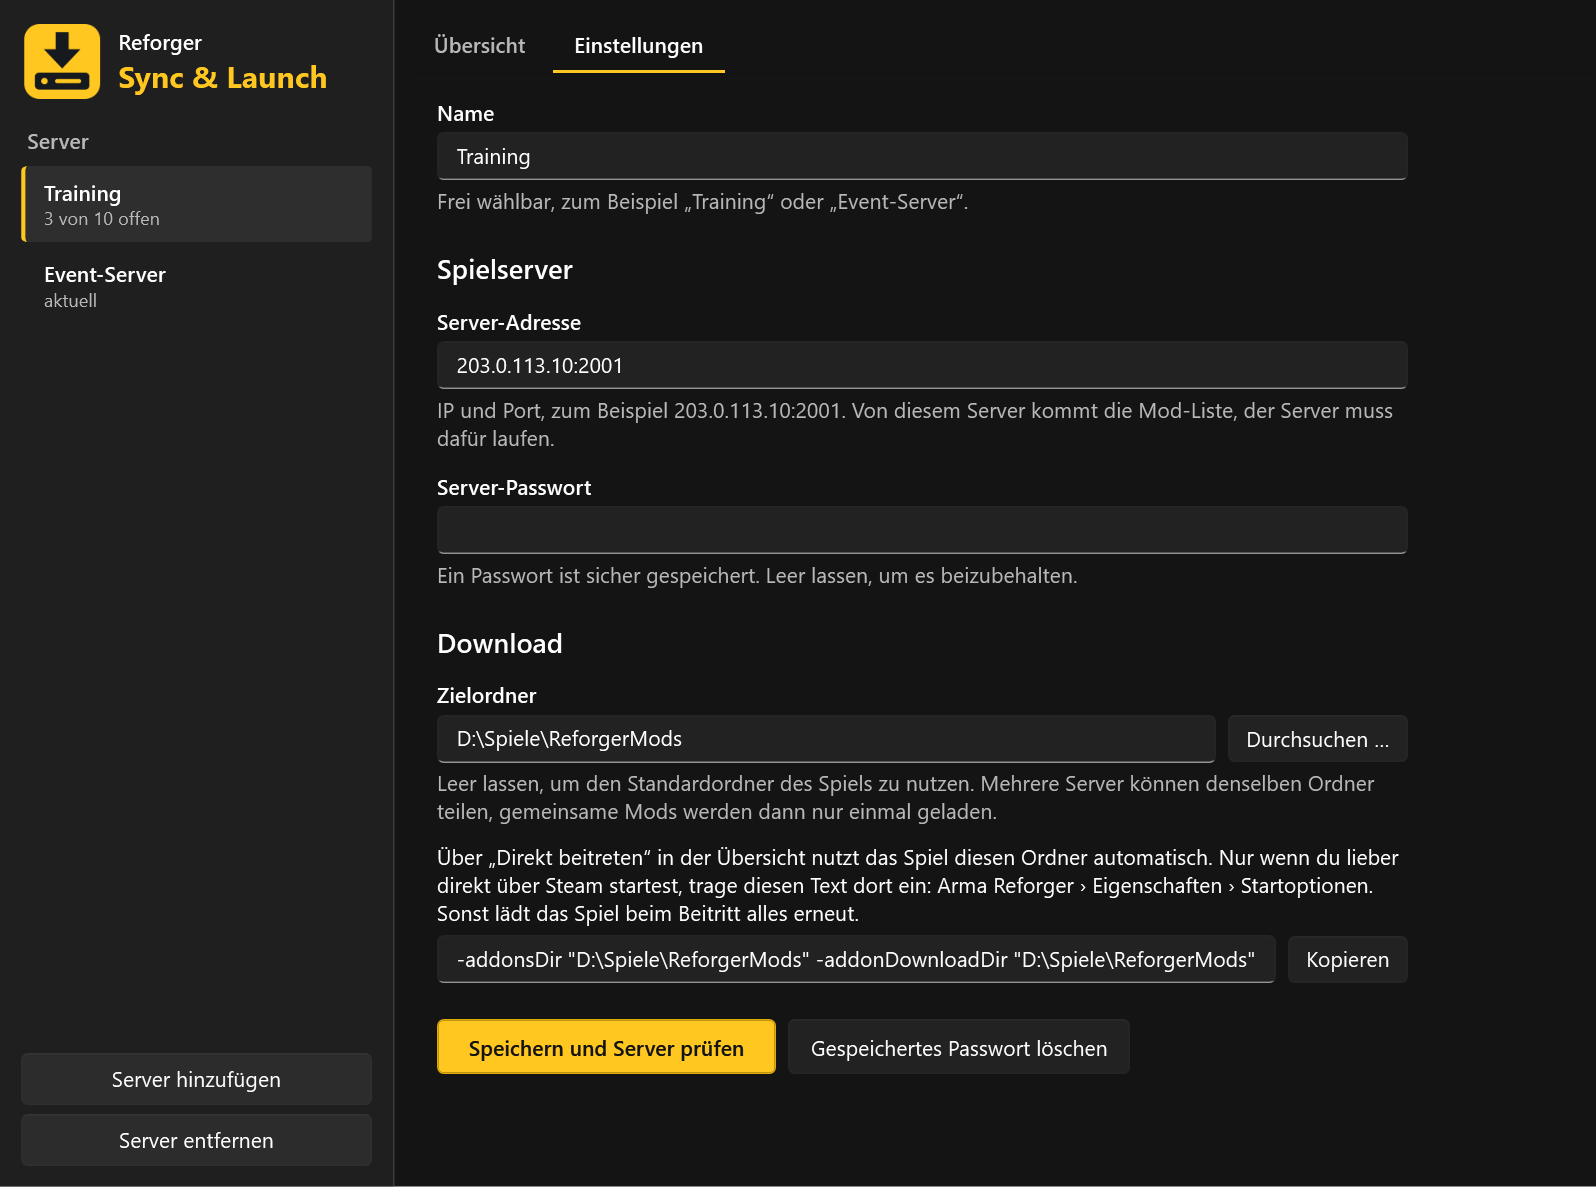
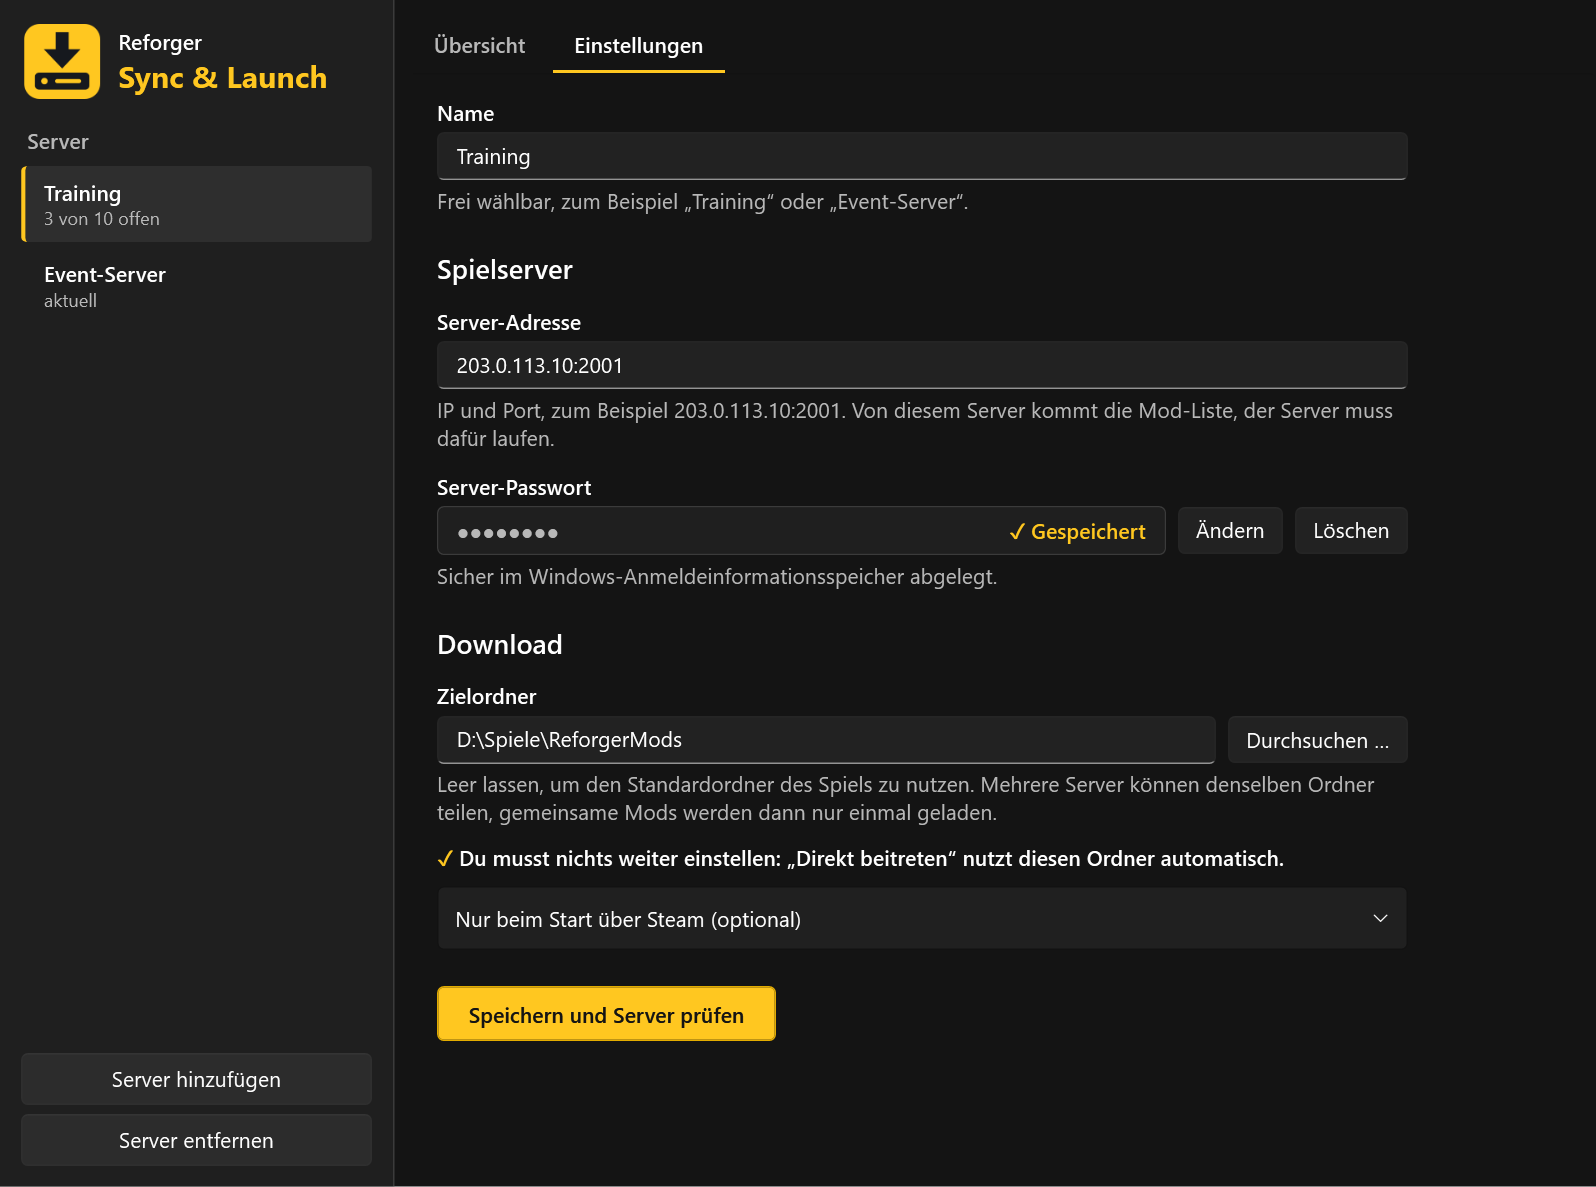
Einstellungen: gespeichertes Passwort klar anzeigen, Steam-Startoptionen optional einklappen

diff --git a/src/ReforgerModSync.App/MainWindow.xaml b/src/ReforgerModSync.App/MainWindow.xaml
@@ -226,7 +226,34 @@
                         <TextBlock Text="IP und Port, zum Beispiel 203.0.113.10:2001. Von diesem Server kommt die Mod-Liste, der Server muss dafür laufen." Style="{StaticResource Hint}" />
 
                         <TextBlock Text="Server-Passwort" Style="{StaticResource FieldLabel}" />
-                        <PasswordBox x:Name="PasswordInput" />
+                        <!-- Die Punkte sind reine Anzeige: feste Anzahl, nichts vom echten Passwort, nie in der Eingabe. -->
+                        <Grid Visibility="{Binding ShowSavedPassword, Converter={StaticResource BoolToVisibility}}">
+                            <Grid.ColumnDefinitions>
+                                <ColumnDefinition Width="*" />
+                                <ColumnDefinition Width="Auto" />
+                                <ColumnDefinition Width="Auto" />
+                            </Grid.ColumnDefinitions>
+                            <Border Background="{StaticResource BrandSurfaceBrush}" BorderBrush="{StaticResource BrandBorderBrush}"
+                                    BorderThickness="1" CornerRadius="4" Padding="12,6"
+                                    AutomationProperties.Name="Ein Passwort ist gespeichert">
+                                <DockPanel>
+                                    <TextBlock DockPanel.Dock="Right" Text="✓ Gespeichert" FontWeight="SemiBold"
+                                               Foreground="{StaticResource BrandGoldBrush}" VerticalAlignment="Center" />
+                                    <TextBlock Text="●●●●●●●●" Foreground="{StaticResource BrandMutedBrush}" VerticalAlignment="Center" />
+                                </DockPanel>
+                            </Border>
+                            <Button Grid.Column="1" Content="Ändern" Margin="8,0,0,0" Click="OnChangePasswordClick" />
+                            <Button Grid.Column="2" Content="Löschen" Margin="8,0,0,0" Click="OnDeletePasswordClick" />
+                        </Grid>
+                        <Grid Visibility="{Binding ShowPasswordInput, Converter={StaticResource BoolToVisibility}}">
+                            <Grid.ColumnDefinitions>
+                                <ColumnDefinition Width="*" />
+                                <ColumnDefinition Width="Auto" />
+                            </Grid.ColumnDefinitions>
+                            <PasswordBox x:Name="PasswordInput" />
+                            <Button Grid.Column="1" Content="Abbrechen" Margin="8,0,0,0" Click="OnCancelPasswordClick"
+                                    Visibility="{Binding CanCancelPasswordEdit, Converter={StaticResource BoolToVisibility}}" />
+                        </Grid>
                         <TextBlock Text="{Binding PasswordHint}" Style="{StaticResource Hint}" />
 
                         <TextBlock Text="Download" Style="{StaticResource SectionTitle}" Margin="0,24,0,0" />
@@ -243,23 +270,31 @@
                                    Text="Leer lassen, um den Standardordner des Spiels zu nutzen. Mehrere Server können denselben Ordner teilen, gemeinsame Mods werden dann nur einmal geladen." />
 
                         <StackPanel Visibility="{Binding HasDownloadDir, Converter={StaticResource BoolToVisibility}}" Margin="0,12,0,0">
-                            <TextBlock TextWrapping="Wrap"
-                                       Text="Über „Direkt beitreten“ in der Übersicht nutzt das Spiel diesen Ordner automatisch. Nur wenn du lieber direkt über Steam startest, trage diesen Text dort ein: Arma Reforger › Eigenschaften › Startoptionen. Sonst lädt das Spiel beim Beitritt alles erneut." />
-                            <Grid Margin="0,6,0,0">
-                                <Grid.ColumnDefinitions>
-                                    <ColumnDefinition Width="*" />
-                                    <ColumnDefinition Width="Auto" />
-                                </Grid.ColumnDefinitions>
-                                <TextBox Text="{Binding SteamLaunchOptions, Mode=OneWay}" IsReadOnly="True" />
-                                <Button Grid.Column="1" Content="Kopieren" Margin="8,0,0,0" Click="OnCopyLaunchOptionsClick" />
-                            </Grid>
+                            <TextBlock TextWrapping="Wrap" FontWeight="SemiBold">
+                                <Run Text="✓" Foreground="{StaticResource BrandGoldBrush}" />
+                                <Run Text="Du musst nichts weiter einstellen: „Direkt beitreten“ nutzt diesen Ordner automatisch." />
+                            </TextBlock>
+                            <!-- Zugeklappt, weil die meisten Nutzer das nie brauchen. -->
+                            <Expander Header="Nur beim Start über Steam (optional)" Margin="0,10,0,0" HorizontalAlignment="Stretch">
+                                <StackPanel Margin="0,6,0,0">
+                                    <TextBlock TextWrapping="Wrap"
+                                               Text="Nur nötig, wenn du das Spiel nicht über diese App, sondern direkt über Steam startest. Trage dann diesen Text dort ein: Arma Reforger › Eigenschaften › Startoptionen. Sonst lädt das Spiel beim Beitritt alles erneut." />
+                                    <Grid Margin="0,8,0,0">
+                                        <Grid.ColumnDefinitions>
+                                            <ColumnDefinition Width="*" />
+                                            <ColumnDefinition Width="Auto" />
+                                        </Grid.ColumnDefinitions>
+                                        <TextBox Text="{Binding SteamLaunchOptions, Mode=OneWay}" IsReadOnly="True" />
+                                        <Button Grid.Column="1" Content="Kopieren" Margin="8,0,0,0" Click="OnCopyLaunchOptionsClick" />
+                                    </Grid>
+                                </StackPanel>
+                            </Expander>
                         </StackPanel>
 
                         <StackPanel Orientation="Horizontal" Margin="0,24,0,0"
                                     IsEnabled="{Binding DataContext.IsNotBusy, RelativeSource={RelativeSource AncestorType=Window}}">
                             <Button Content="Speichern und Server prüfen" Click="OnSaveClick"
                                     Style="{DynamicResource AccentButtonStyle}" FontWeight="SemiBold" Padding="20,8" />
-                            <Button Content="Gespeichertes Passwort löschen" Click="OnDeletePasswordClick" Margin="8,0,0,0" Padding="14,8" />
                         </StackPanel>
                         <DockPanel Margin="0,12,0,0">
                             <local:BusyIndicator DockPanel.Dock="Left" Margin="0,1,10,0" VerticalAlignment="Top"

diff --git a/src/ReforgerModSync.App/MainWindow.xaml.cs b/src/ReforgerModSync.App/MainWindow.xaml.cs
@@ -2,6 +2,7 @@ using System.ComponentModel;
 using System.IO;
 using System.Windows;
 using System.Windows.Controls;
+using System.Windows.Threading;
 using Microsoft.Win32;
 
 namespace ReforgerModSync.App;
@@ -27,6 +28,10 @@ public partial class MainWindow : Window
             if (e.PropertyName == nameof(MainViewModel.SelectedProfile))
             {
                 PasswordInput.Clear();
+                if (viewModel.SelectedProfile is { } selected)
+                {
+                    selected.IsEditingPassword = false;
+                }
             }
         };
     }
@@ -47,10 +52,39 @@ public partial class MainWindow : Window
         }
     }
 
+    private void OnChangePasswordClick(object sender, RoutedEventArgs e)
+    {
+        if (_viewModel.SelectedProfile is { } profile)
+        {
+            profile.IsEditingPassword = true;
+
+            // Das Feld wird gerade erst sichtbar und kann den Fokus erst nach dem Layout annehmen.
+            Dispatcher.BeginInvoke(() => PasswordInput.Focus(), DispatcherPriority.Input);
+        }
+    }
+
+    private void OnCancelPasswordClick(object sender, RoutedEventArgs e)
+    {
+        PasswordInput.Clear();
+        if (_viewModel.SelectedProfile is { } profile)
+        {
+            profile.IsEditingPassword = false;
+        }
+    }
+
     private void OnDeletePasswordClick(object sender, RoutedEventArgs e)
     {
-        _viewModel.DeleteSelectedPassword();
-        PasswordInput.Clear();
+        var confirmed = BrandDialog.Confirm(
+            this,
+            "Gespeichertes Passwort löschen?",
+            "Für diesen Server musst du das Passwort danach neu eingeben.",
+            "Löschen",
+            danger: true);
+        if (confirmed)
+        {
+            _viewModel.DeleteSelectedPassword();
+            PasswordInput.Clear();
+        }
     }
 
     private async void OnRemoveProfileClick(object sender, RoutedEventArgs e)

diff --git a/src/ReforgerModSync.App/MainViewModel.cs b/src/ReforgerModSync.App/MainViewModel.cs
@@ -61,7 +61,7 @@ public sealed partial class MainViewModel(
         foreach (var saved in _settings.Profiles)
         {
             var profile = new ProfileViewModel(saved);
-            ReadPasswordHint(profile);
+            ReadPasswordState(profile);
             await ShowCachedListAsync(profile);
             Profiles.Add(profile);
         }
@@ -186,7 +186,7 @@ public sealed partial class MainViewModel(
             return;
         }
 
-        ReadPasswordHint(profile);
+        ReadPasswordState(profile);
         ShowMods(profile, result.Mods);
         SetStandNow(profile);
         SetStatus(profile, "", isError: false);
@@ -207,7 +207,7 @@ public sealed partial class MainViewModel(
             credentialStore.DeletePassword(address, profile.Id);
         }
 
-        ReadPasswordHint(profile);
+        ReadPasswordState(profile);
         ShowSettingsMessage(profile, "Das gespeicherte Passwort dieses Servers wurde gelöscht.", isError: false);
     }
 
@@ -484,13 +484,11 @@ public sealed partial class MainViewModel(
         }
     }
 
-    private void ReadPasswordHint(ProfileViewModel profile)
+    private void ReadPasswordState(ProfileViewModel profile)
     {
-        var hasPassword = profile.Saved?.ServerAddress is { } address
+        profile.HasSavedPassword = profile.Saved?.ServerAddress is { } address
             && credentialStore.ReadPassword(address, profile.Id) is not null;
-        profile.PasswordHint = hasPassword
-            ? "Ein Passwort ist sicher gespeichert. Leer lassen, um es beizubehalten."
-            : "Leer lassen, wenn der Server kein Passwort hat.";
+        profile.IsEditingPassword = false;
     }
 
     private static bool IsConfigured(ProfileViewModel profile) =>

diff --git a/src/ReforgerModSync.App/ProfileViewModel.cs b/src/ReforgerModSync.App/ProfileViewModel.cs
@@ -41,7 +41,26 @@ public sealed partial class ProfileViewModel : ObservableObject
     [NotifyPropertyChangedFor(nameof(SteamLaunchOptions), nameof(HasDownloadDir), nameof(DownloadDirDisplay))]
     private string _downloadDir;
 
-    [ObservableProperty] private string _passwordHint = "";
+    [ObservableProperty]
+    [NotifyPropertyChangedFor(nameof(ShowSavedPassword), nameof(ShowPasswordInput), nameof(CanCancelPasswordEdit), nameof(PasswordHint))]
+    private bool _hasSavedPassword;
+
+    /// <summary>Der Nutzer hat bei einem gespeicherten Passwort „Ändern“ gewählt.</summary>
+    [ObservableProperty]
+    [NotifyPropertyChangedFor(nameof(ShowSavedPassword), nameof(ShowPasswordInput), nameof(CanCancelPasswordEdit), nameof(PasswordHint))]
+    private bool _isEditingPassword;
+
+    public bool ShowSavedPassword => HasSavedPassword && !IsEditingPassword;
+    public bool ShowPasswordInput => !ShowSavedPassword;
+    public bool CanCancelPasswordEdit => HasSavedPassword && IsEditingPassword;
+
+    public string PasswordHint => (HasSavedPassword, IsEditingPassword) switch
+    {
+        (true, false) => "Sicher im Windows-Anmeldeinformationsspeicher abgelegt.",
+        (true, true) => "Neues Passwort eingeben und unten speichern. Es ersetzt das bisherige.",
+        _ => "Leer lassen, wenn der Server kein Passwort hat.",
+    };
+
     [ObservableProperty] private string _settingsMessage = "";
     [ObservableProperty] private bool _settingsMessageIsError;
 

diff --git a/README.md b/README.md
@@ -49,7 +49,7 @@ Klicke danach auf **Speichern und Server prüfen**. Das dauert rund 10 Sekunden.
 
 **Zielordner:** Die Mods liegen darin im Unterordner `addons`. Wähle den Ordner, der deinen vorhandenen `addons`-Ordner enthält, sonst wird alles neu geladen.
 
-**Start über Steam:** Mit „Direkt beitreten“ nutzt das Spiel einen eigenen Zielordner automatisch. Startest du lieber über Steam, kopiere den angezeigten Text in die Startoptionen des Spiels (Arma Reforger › Eigenschaften › Startoptionen). Sonst lädt das Spiel beim Beitritt alles erneut.
+**Start über Steam (optional):** Mit „Direkt beitreten“ musst du nichts weiter einstellen, das Spiel nutzt deinen Zielordner automatisch. Nur wenn du das Spiel direkt über Steam startest und einen eigenen Zielordner gewählt hast, klappe „Nur beim Start über Steam“ auf und kopiere den Text in die Startoptionen (Arma Reforger › Eigenschaften › Startoptionen). Sonst lädt das Spiel beim Beitritt alles erneut.
 
 ## Benutzung
 
